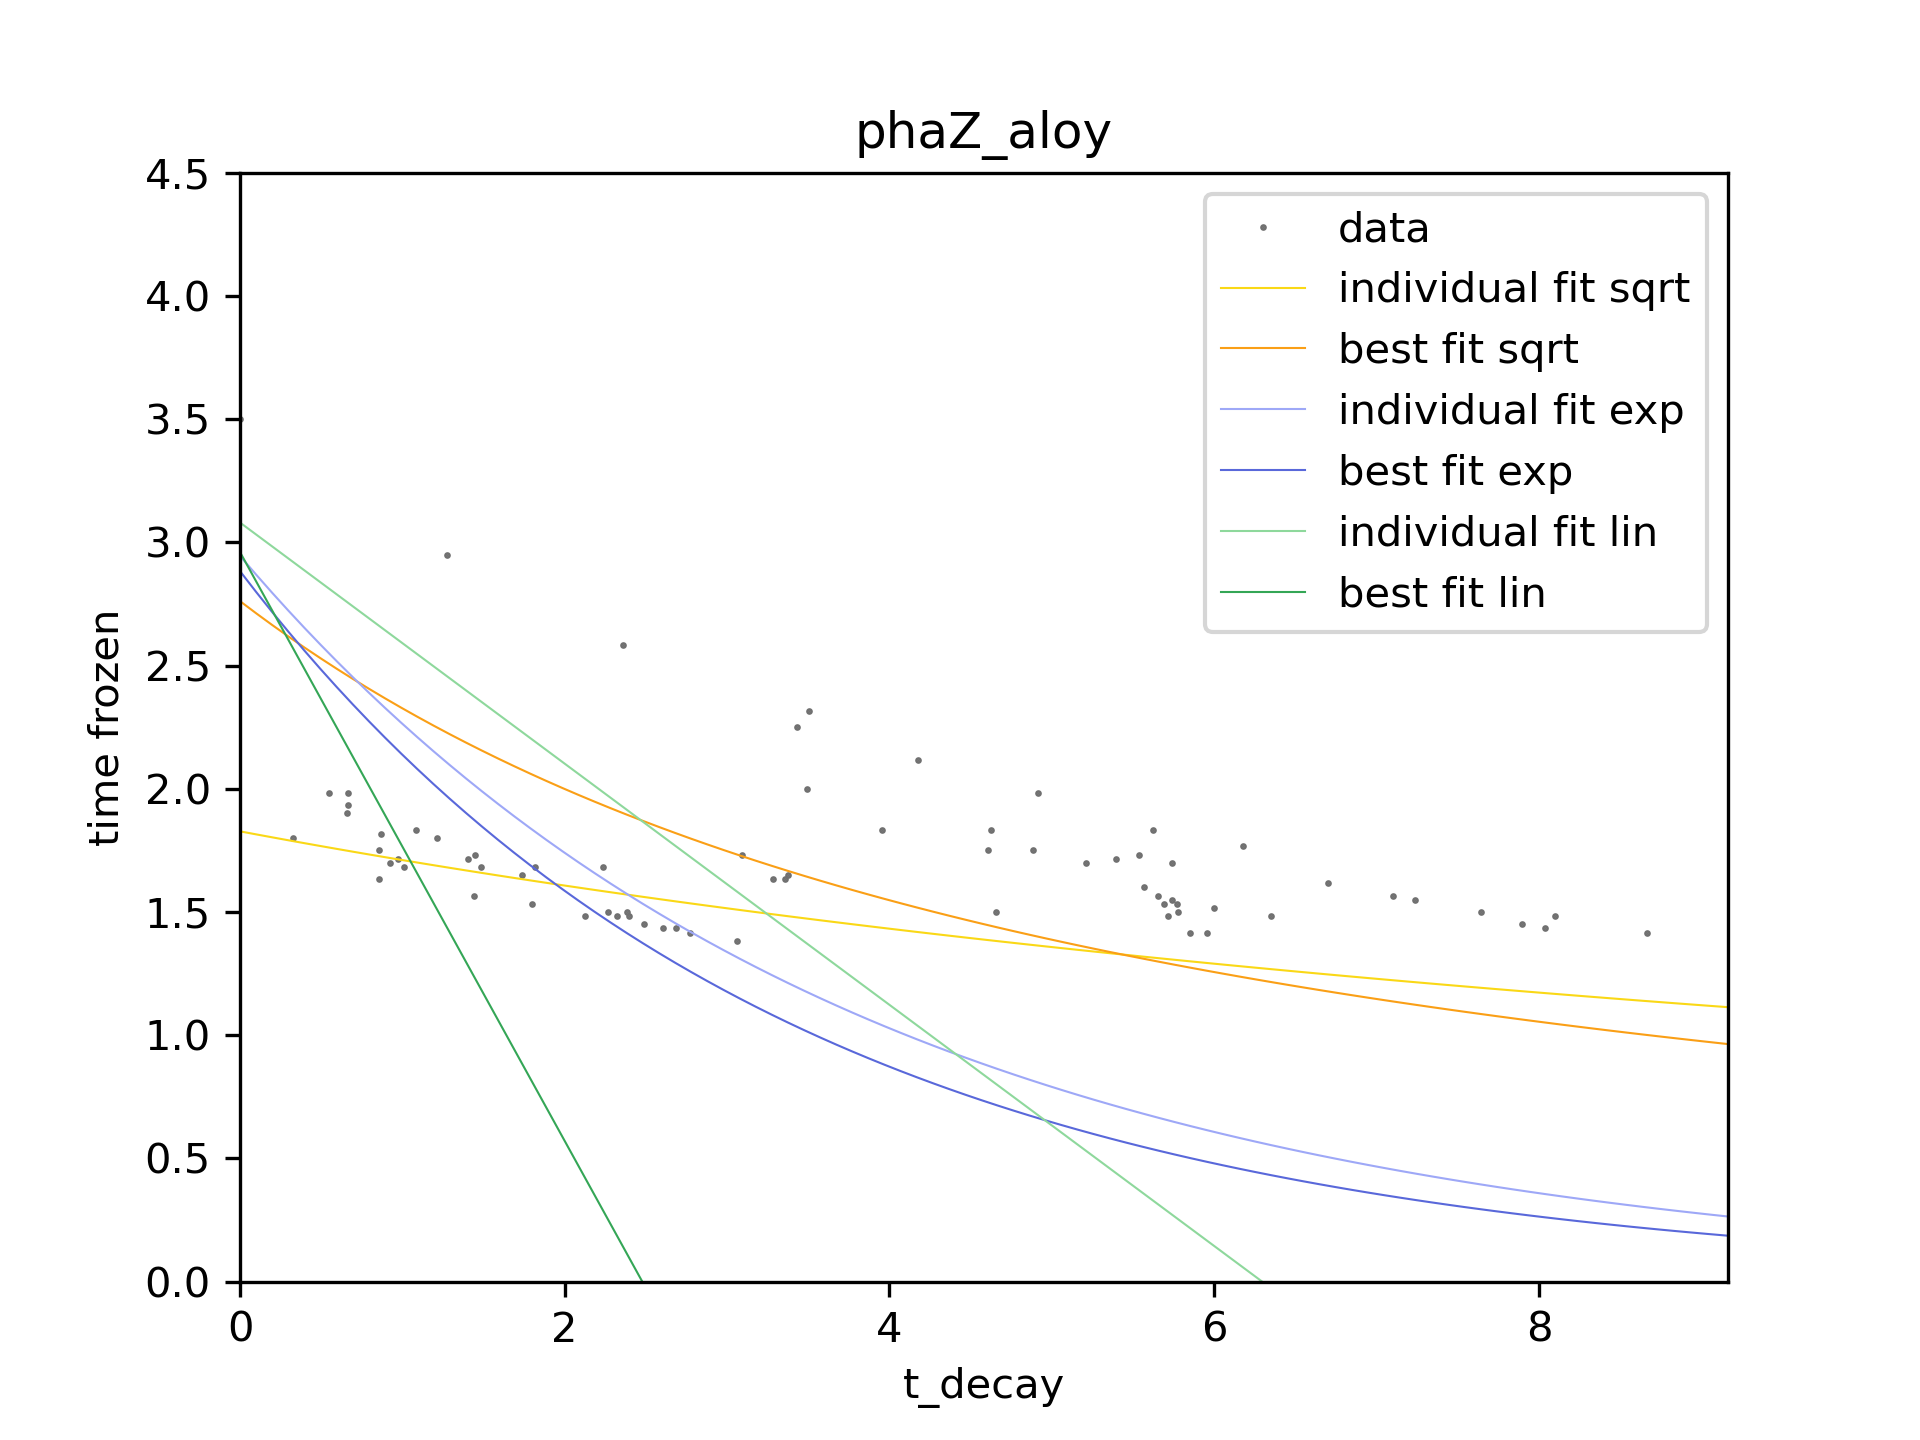
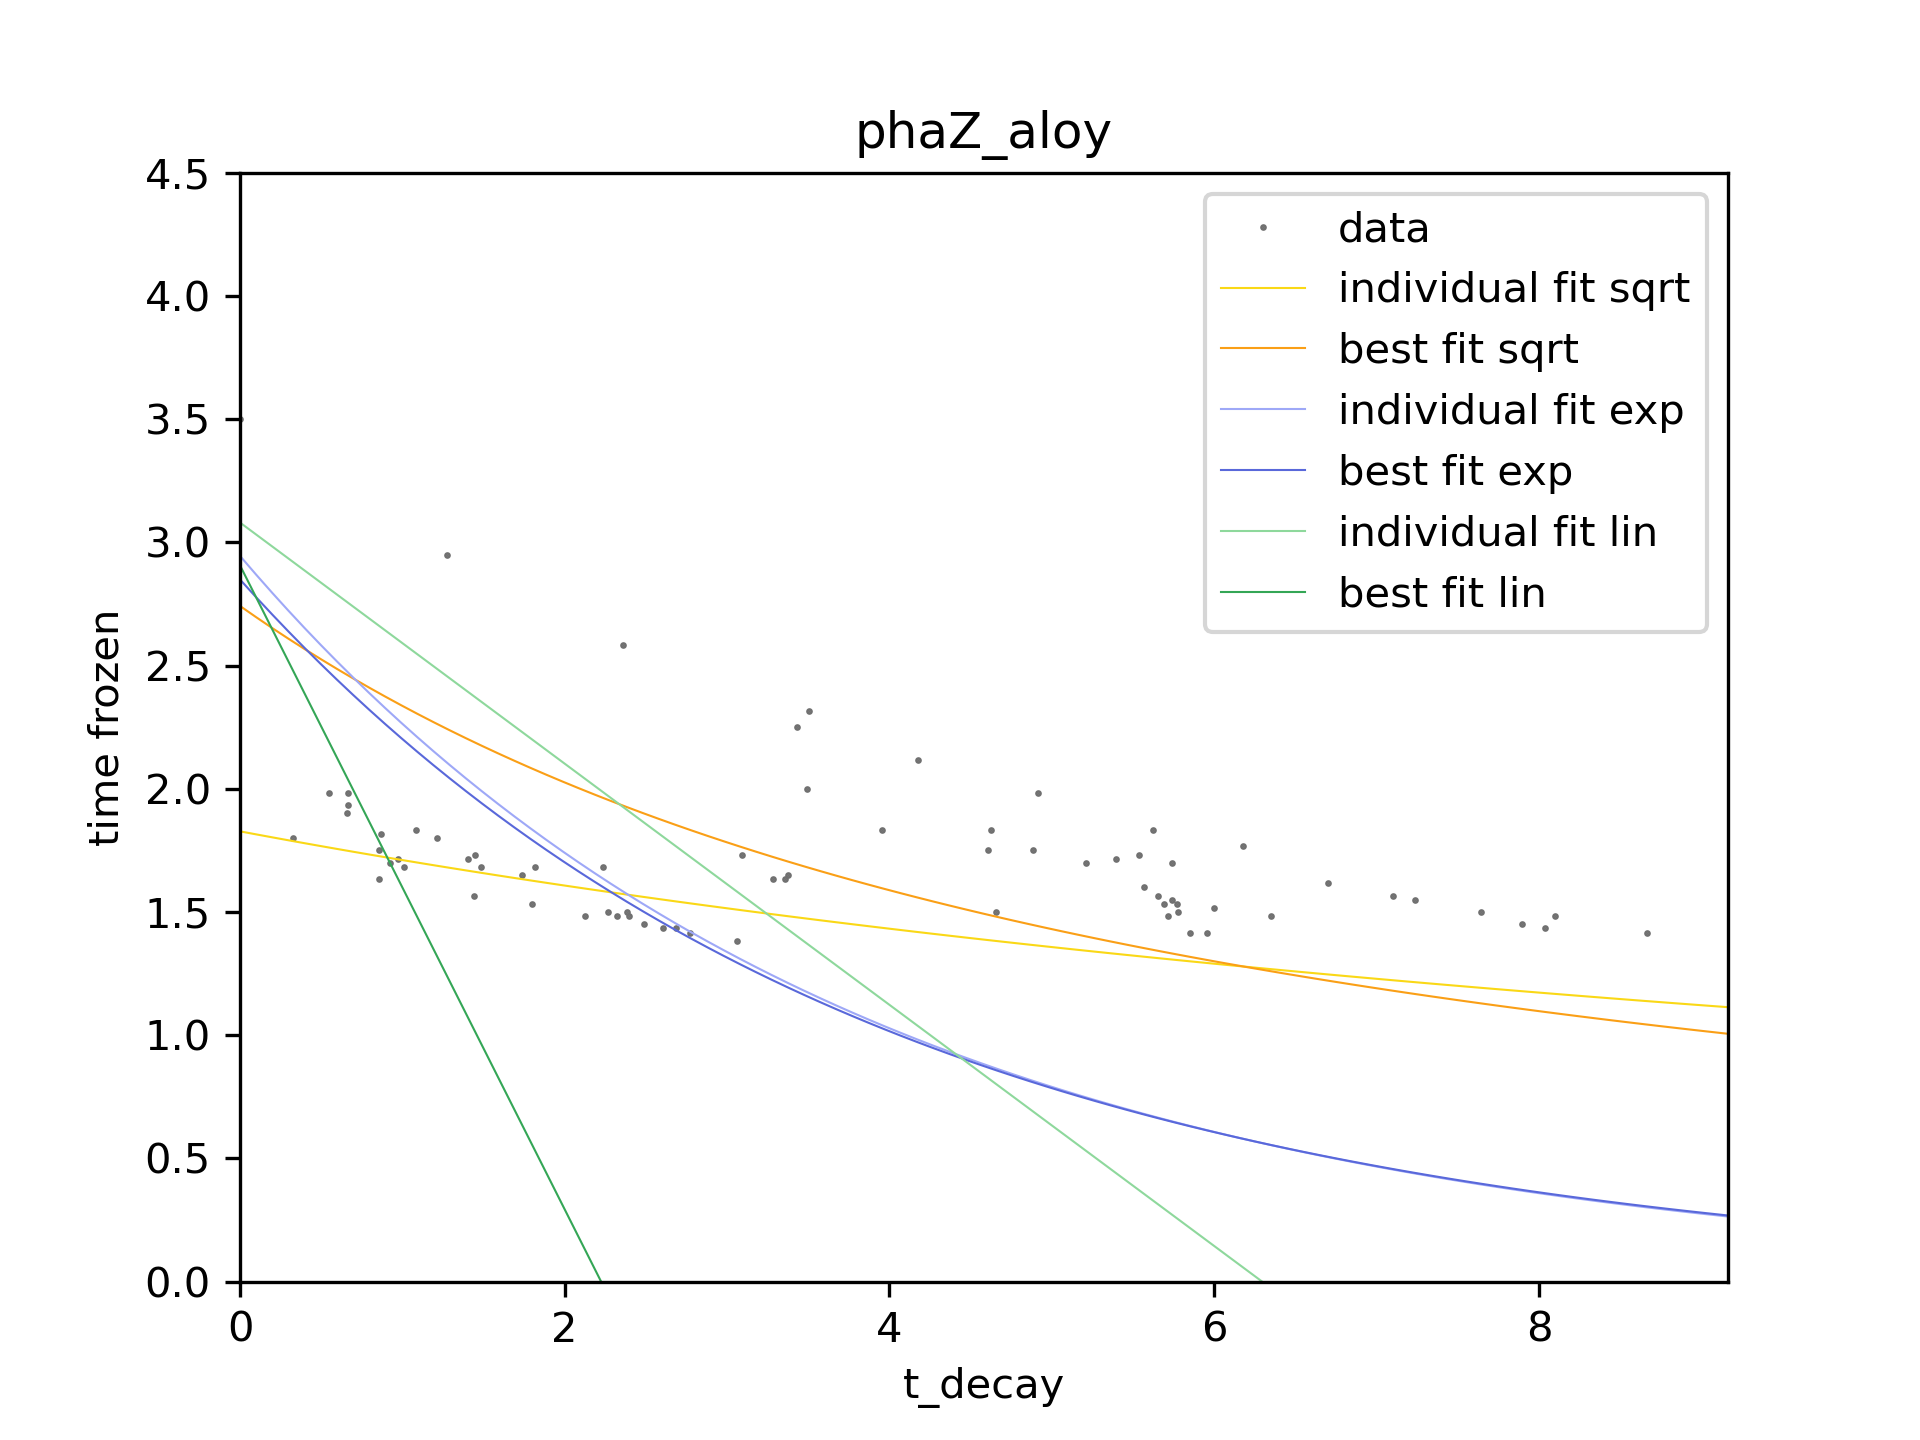
1.5 - fixed assumption about resetting

diff --git a/main.py b/main.py
@@ -158,8 +158,8 @@ def freeze_time_calcs_from_raw(raw_data, array_mode="sequential", element_durabi
                         l += 1
 
     # freeze decay reset calcs
-    # freeze decay resets for sure when unfrozen for longer than 2 s
-    freeze_decay_reset = np.array([(duration_unfrozen[k]) >= 2 or duration_frozen[k] <= 0 or pd.isna(duration_frozen[k])
+    # assume freeze decay resets for sure when unfrozen for longer than 5 s
+    freeze_decay_reset = np.array([(duration_unfrozen[k]) >= 5 or duration_frozen[k] <= 0 or pd.isna(duration_frozen[k])
                                    for k in range(0, df_length)], dtype=bool)
     # initialize arrays and variables
     time_frozen_cumulative = np.zeros_like(duration_unfrozen)  # since last reset
